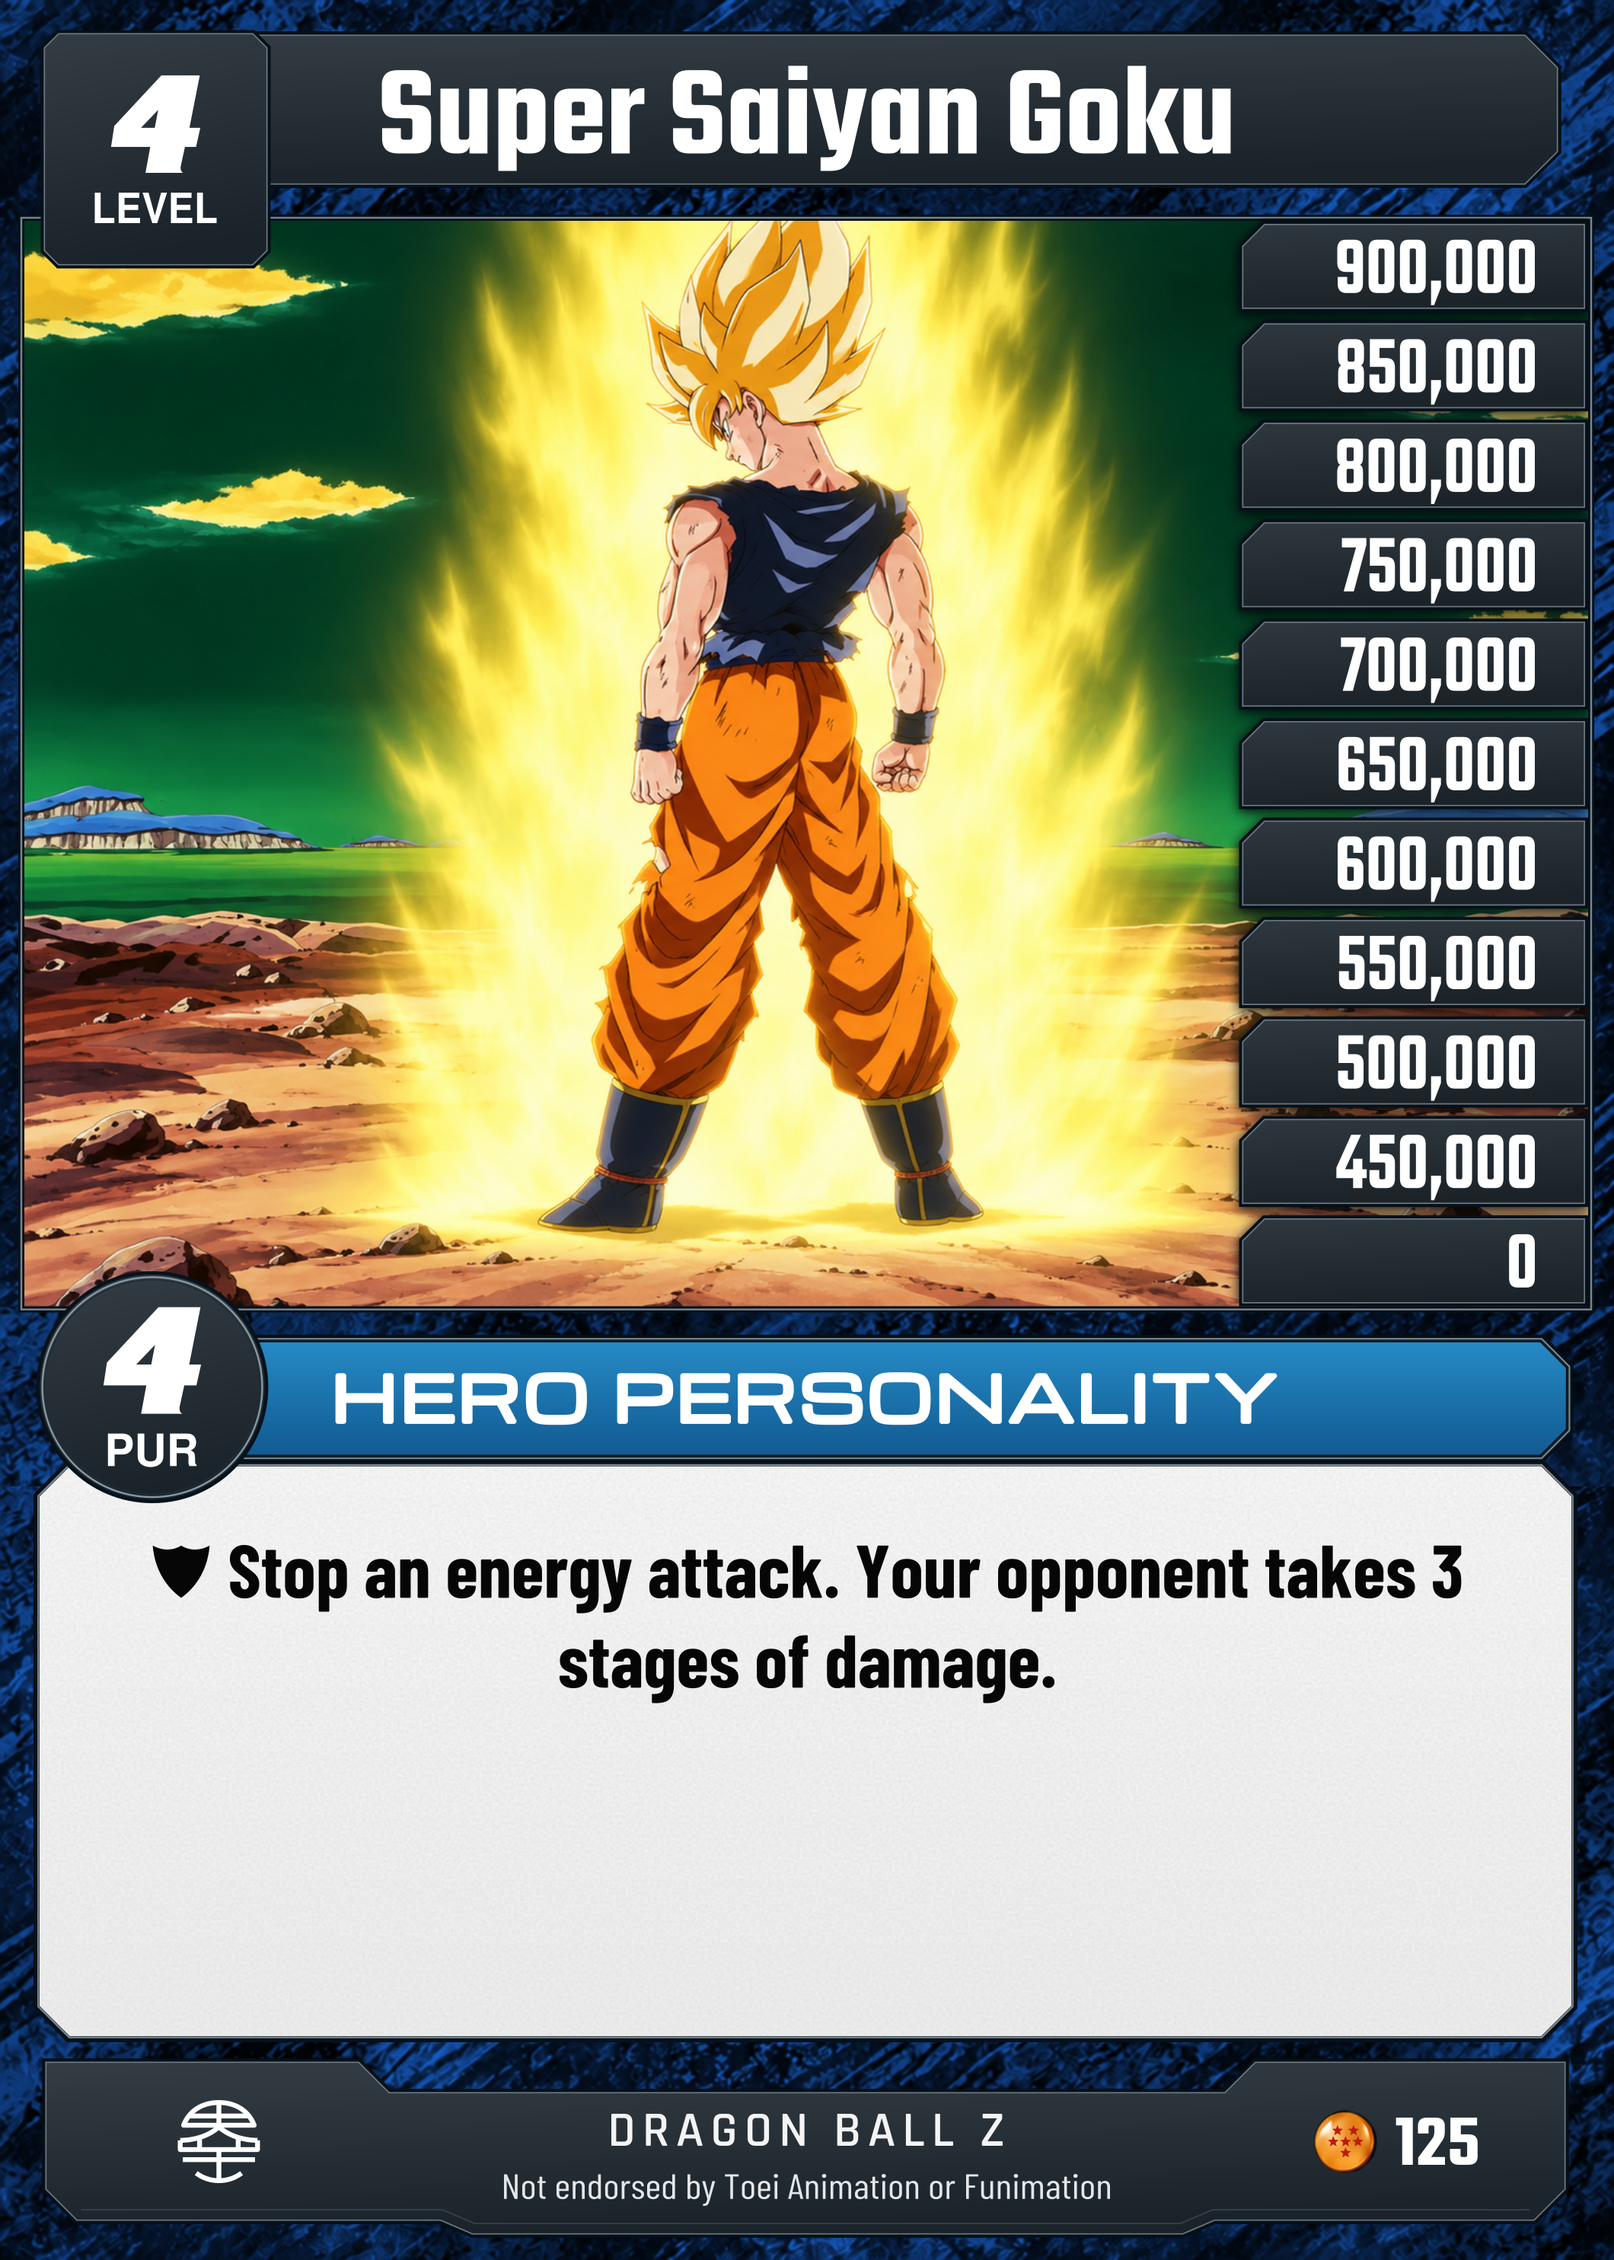
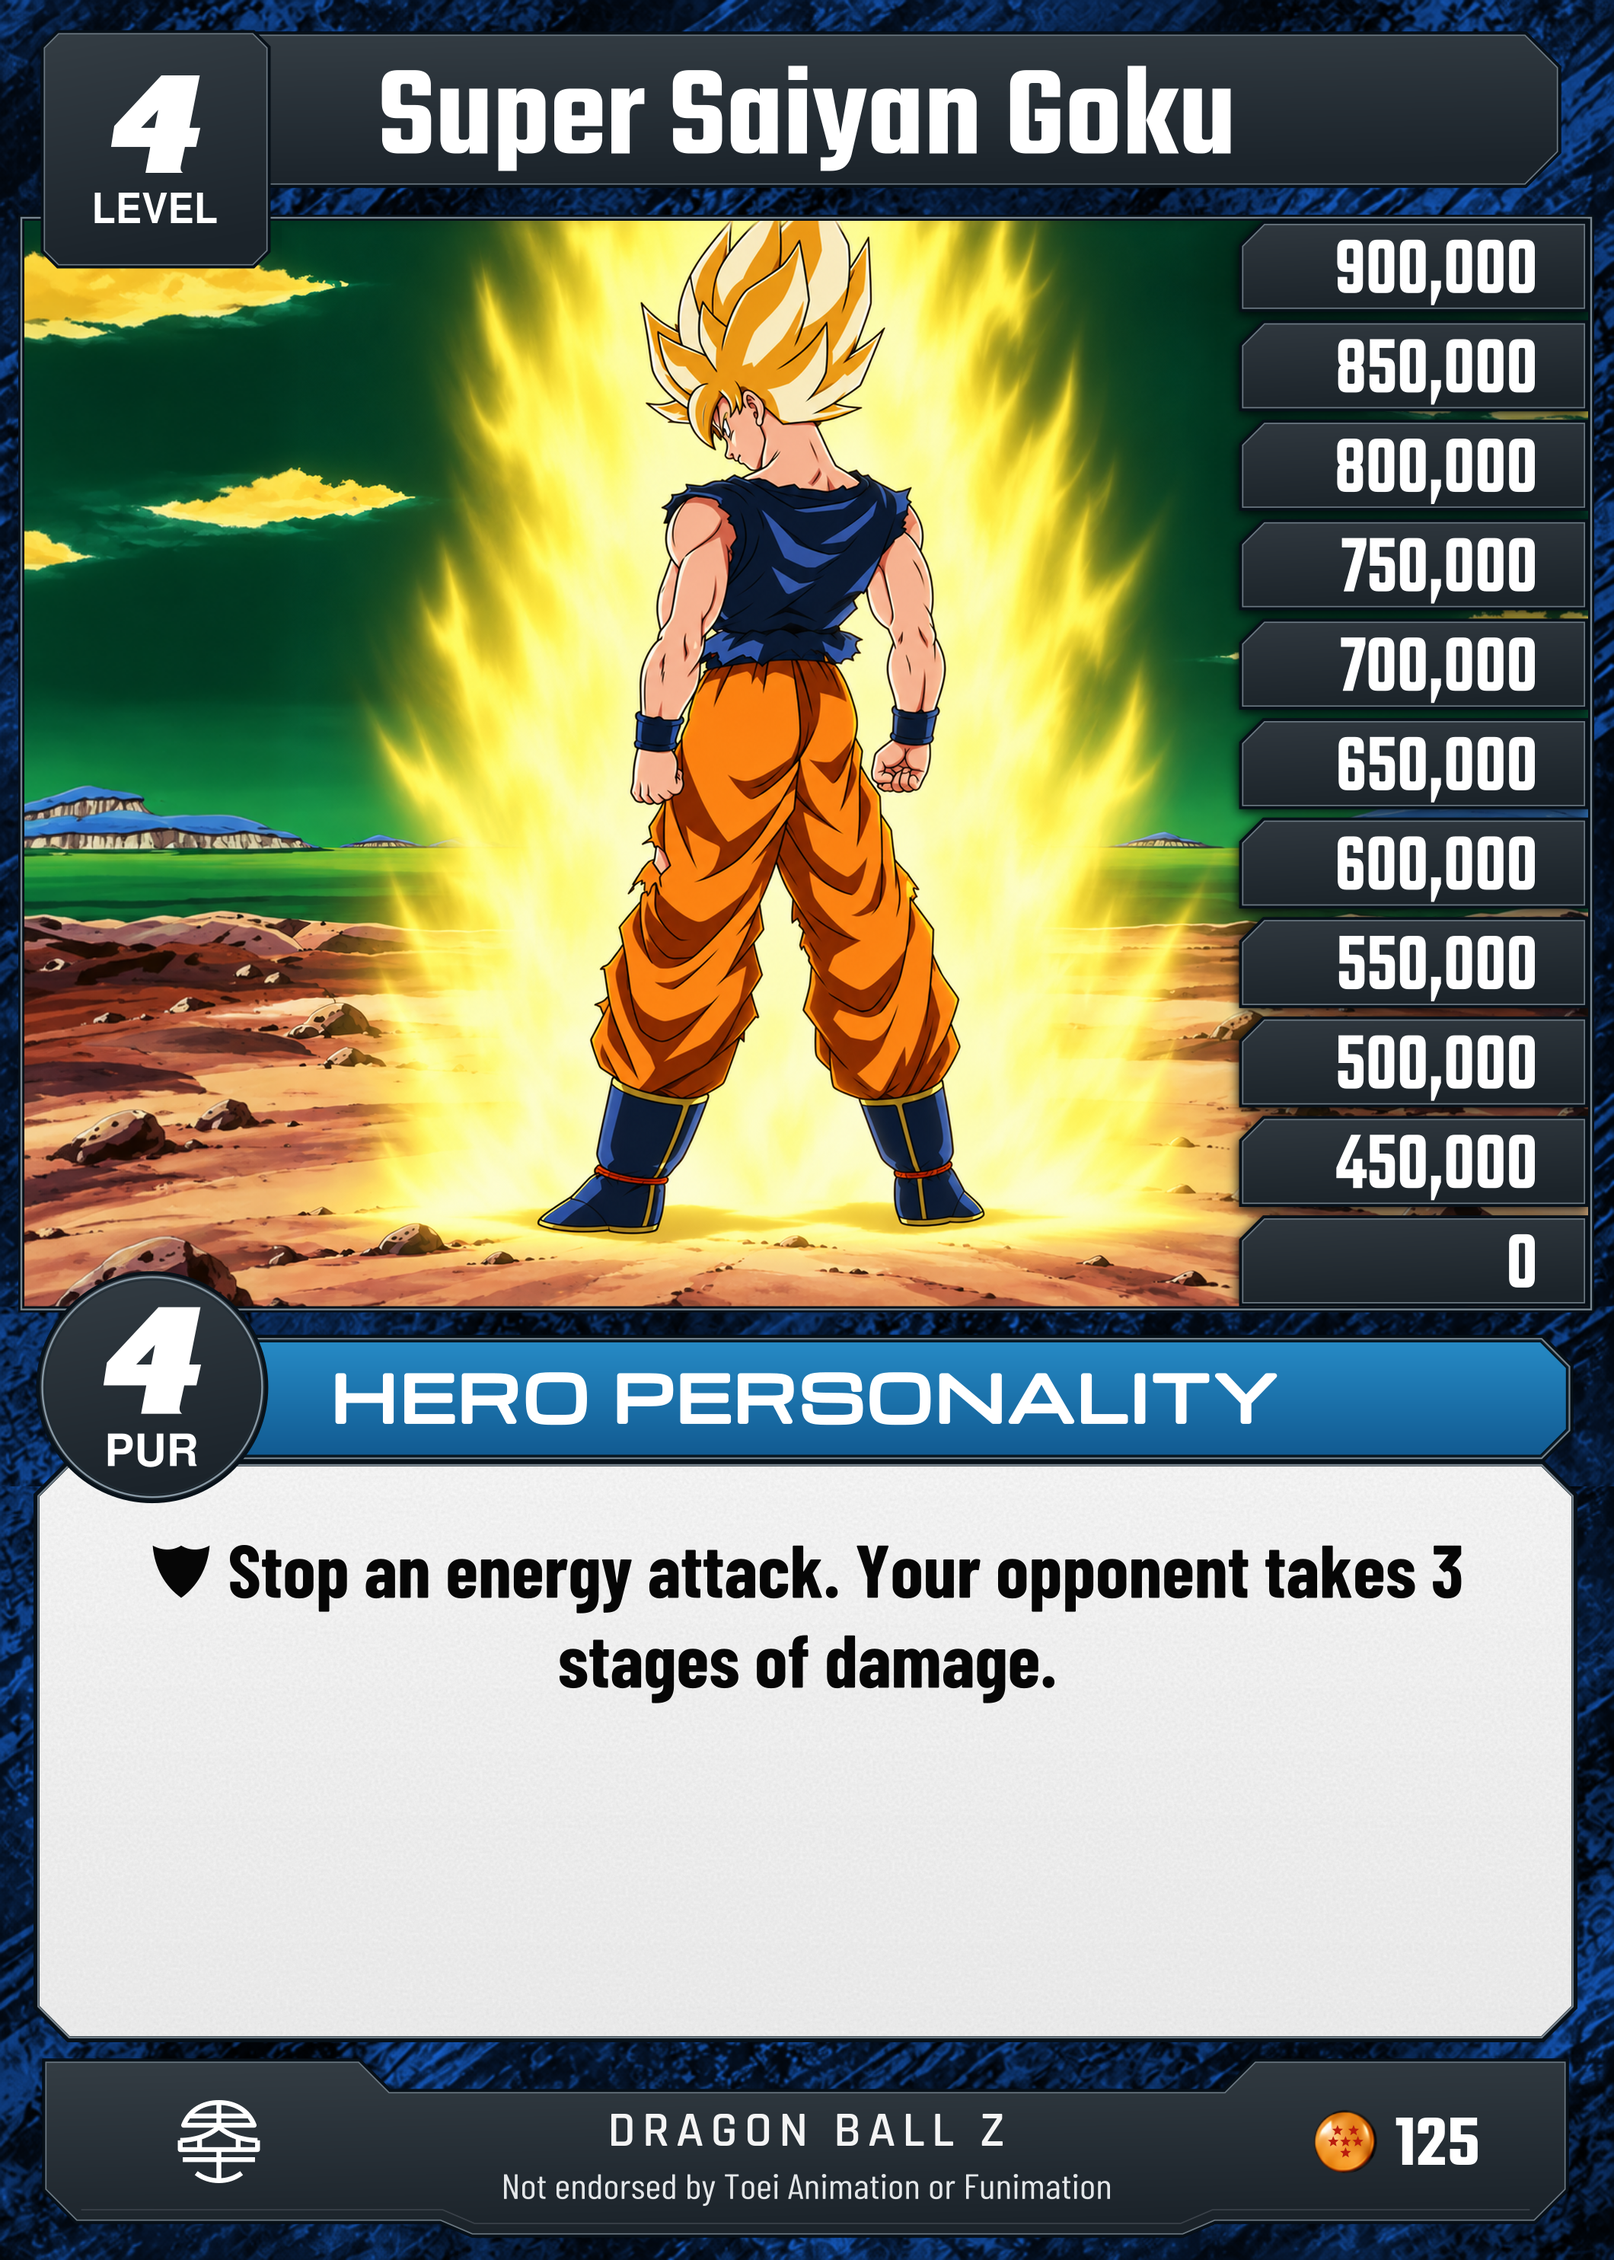
Publish approved Frieza Super Saiyan Goku linework refinement
Use the approved cleaner illustration while preserving the rear view, pose, yellow aura and crop. Retain every pixel outside the permitted artwork footprint, including frame, stage values, LEVEL/PUR numerals and footer. Update only the card display, lossless download and their cache hashes.

Validation: download matches the approved PNG exactly; zero UI pixel changes; all 423 cards retain their game data; 14 card-page and browser tests pass.

diff --git a/public/cards/catalog.js b/public/cards/catalog.js
@@ -5977,8 +5977,8 @@ export const catalog = [
       450000,
       0
     ],
-    "image": "/assets/cards/frieza-125-super-saiyan-goku.webp?v=321c2ec61b45",
-    "downloadImage": "/assets/cards/downloads/frieza-125-super-saiyan-goku.webp?v=d7ee8a75a239"
+    "image": "/assets/cards/frieza-125-super-saiyan-goku.webp?v=a2227078d553",
+    "downloadImage": "/assets/cards/downloads/frieza-125-super-saiyan-goku.webp?v=58d9e6f28d3f"
   },
   {
     "id": "frieza-p1-it-s-just-not-worth-it",
